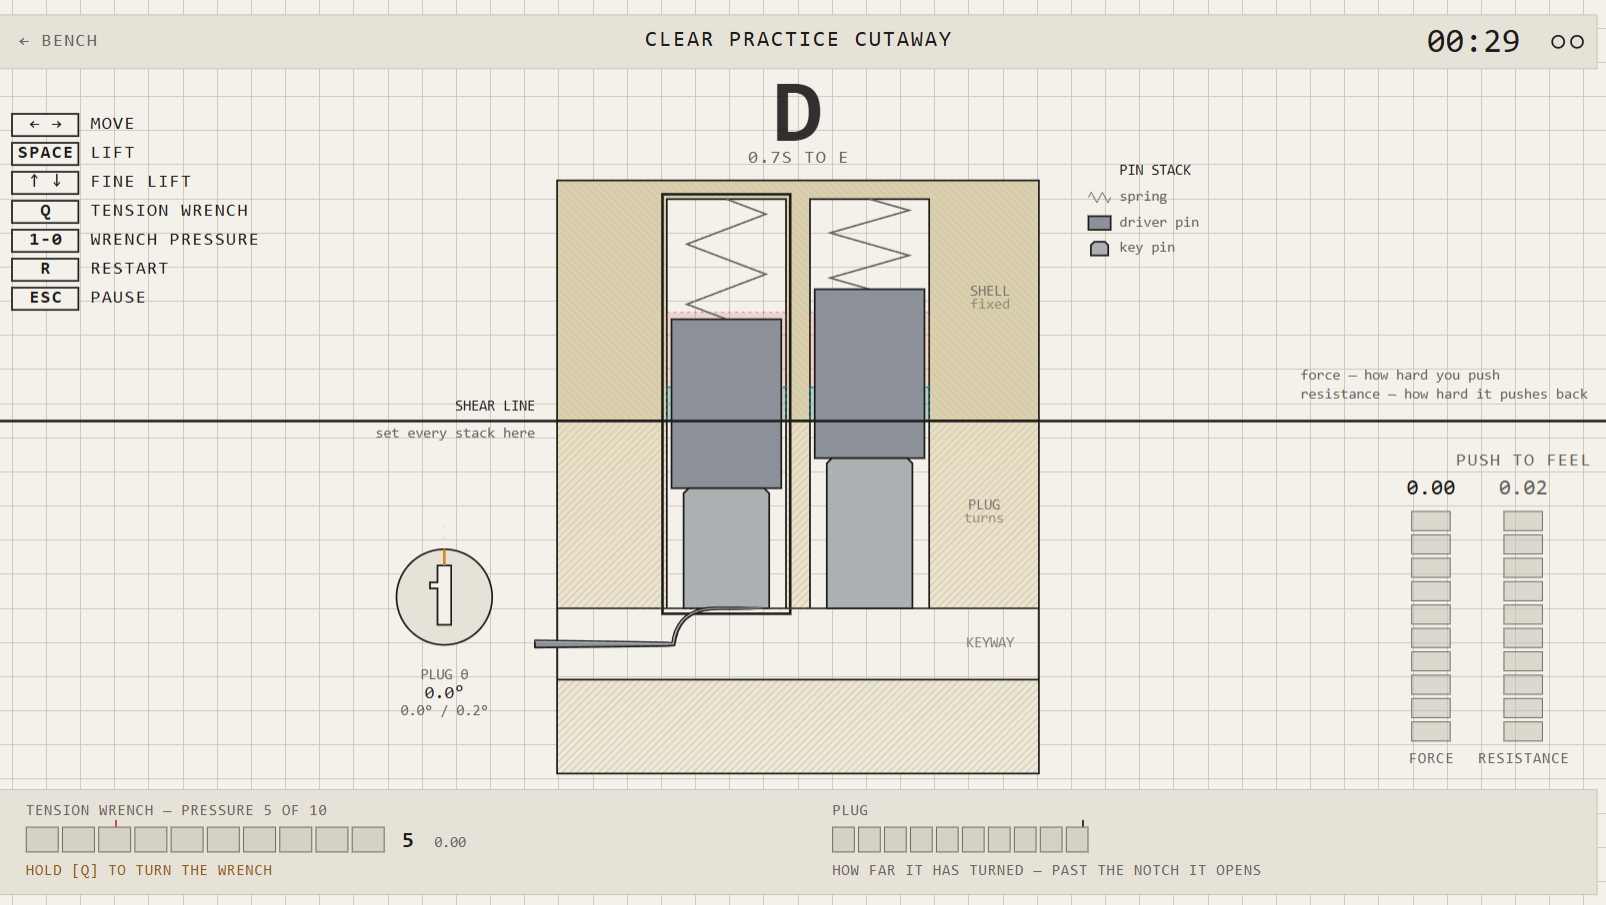
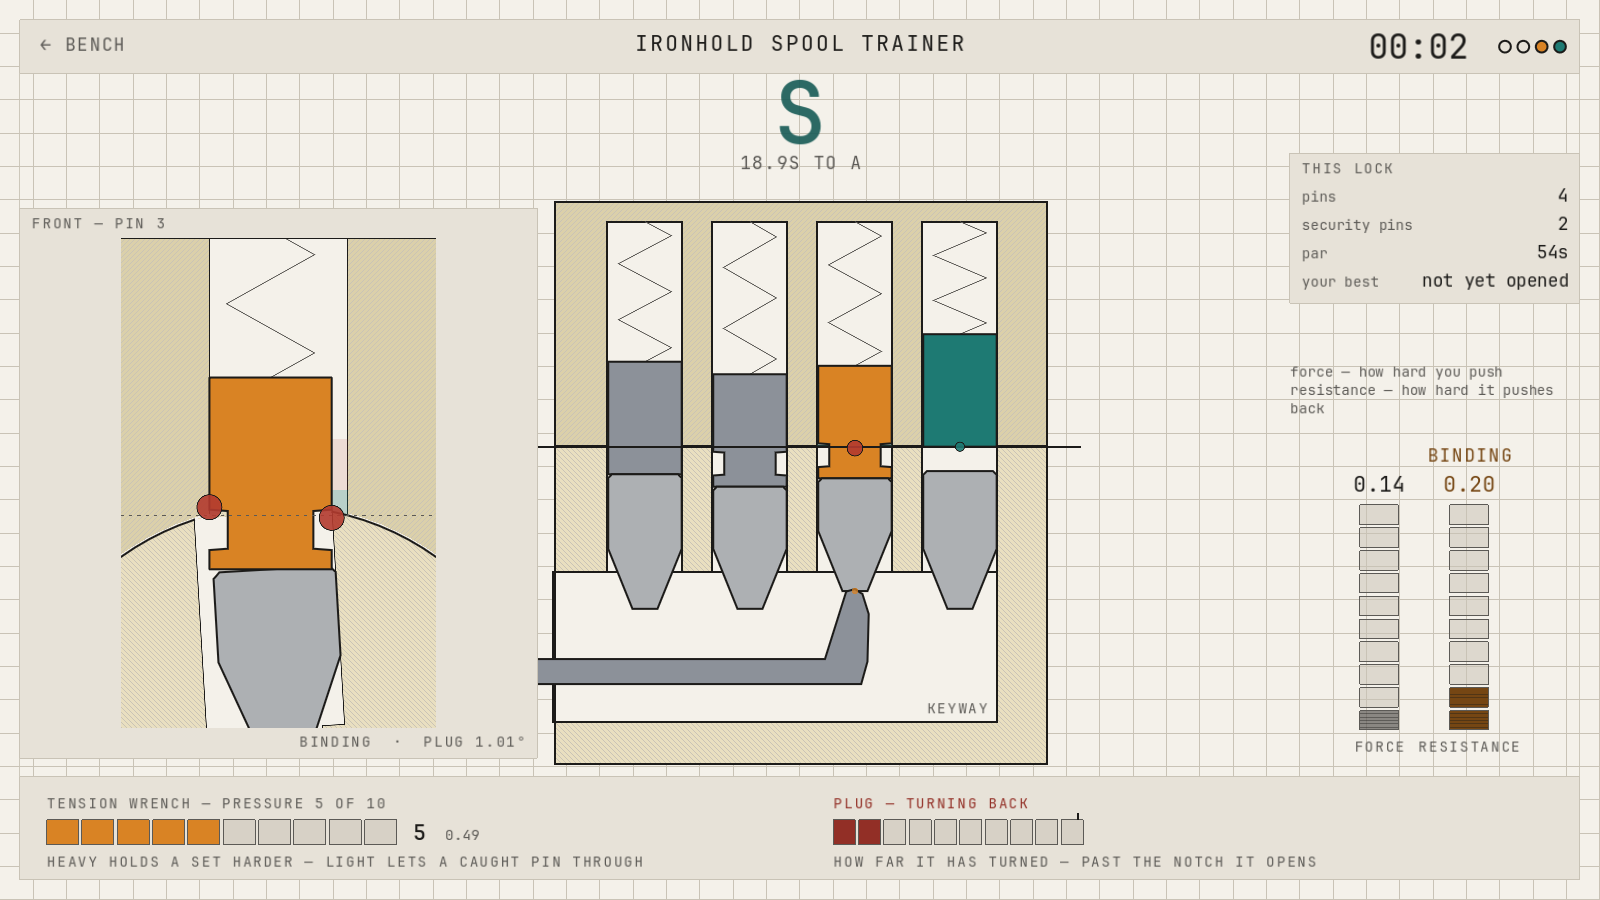
Update

diff --git a/old/README.md b/old/README.md
@@ -1,99 +1,63 @@
-# SHEAR LINE
+# SHEAR LINE, the first version
 
-**A lockpicking simulator that doesn't roll dice.**
+This is the original browser version of the game, written in TypeScript. It is not developed
+anymore. The current game is the Godot project in [`../src`](../src/README.md), and that is what
+[lockpick.fun](https://lockpick.fun) serves.
 
-> This is the original browser version of the game. It is no longer developed: the game is now
-> the Godot project in [`../src`](../src/README.md), and that is what
-> [lockpick.fun](https://lockpick.fun) serves. This version stays playable beside it.
+This version is still playable at **[lockpick.fun/classic](https://lockpick.fun/classic/)**.
 
-**Play it at [lockpick.fun/classic](https://lockpick.fun/classic/)**
+![Ironhold Spool Trainer in this version: two pins set, a spool binding](../.github/classic.png)
 
-![The Ironhold Spool Trainer, mid-false-set: two pins captured, a spool lying about the third, and the plug swung 18 degrees round to nothing.](../.github/screenshot.png)
-
-Most games turn lockpicking into a puzzle: connect the pipes, stop the bar in the green zone, or
-wiggle a stick until a hidden dice roll decides you deserve it.
-
-This one doesn't. Every lock here is a real mechanism, simulated. There's no secret success chance
-and no progress bar. A pin sets because you held the pick still inside a window a fraction of a
-millimetre wide, long enough for the plug's ledge to catch under the driver. When a spool shoves
-your pick back out, that's a wedge on a bevel — worked out, not faked.
-
-Twenty-two locks across four tiers, and a pick that bends when the lock pushes back.
-
----
+It has 24 locks in four tiers (pin tumblers and combination wheels), a snap gun, a lock editor and
+a dungeon of locked doors.
 
 ## Playing
 
-It runs in your browser. Nothing to install, no account, and no network traffic once the page has
+It runs in the browser. Nothing to install, no account, and no network requests after the page has
 loaded.
 
-Want it offline? Every build is attached to the [latest release](../../../releases/latest) as a zip.
-Unpack it, open `index.html`, and it runs straight off your disk — there's nothing in it to fetch.
+For an offline copy, every build is attached to the [latest release](../../../releases/latest) as
+a zip. Unpack it and open `index.html`.
 
 ### Controls
 
-You pick with the keyboard. The mouse is only for menus.
+Keyboard, mouse or controller. The pick screen shows the controls for whatever you are using.
 
-| key | what it does |
+| key | |
 |---|---|
-| **Q**, held | The tension wrench. **Nothing works without it.** |
-| **Left / Right** | Move the pick to the next chamber. |
-| **Space**, held | Push the pick up. Let go and the pin drops back down. |
-| **1 … 9, 0** | Wrench pressure, ten steps from light to heavy. |
-| **Up / Down** | Trim the lift a hair. Training level only. |
-| **R** | Restart the lock. |
-| **Esc** | Pause. |
+| Q (hold) | tension wrench |
+| Left / Right | move the pick |
+| Space (hold) | push the pick up; let go and the pin drops |
+| 1 to 0 | wrench pressure |
+| Up / Down | fine lift (Training only) |
+| R | restart |
+| Esc | pause |
 
-**Learn the wrench first.** With no tension, nothing binds and nothing can be captured — you can
-lift every pin in the lock and achieve absolutely nothing. The game tells you so, in amber, until
-you've used it once.
+Hold the wrench first. Without tension nothing binds and nothing sets.
 
-**On a phone:** turn it sideways. Tap a pin to select it, drag up to lift, and the slider down the
-left edge *is* your wrench — off at the bottom, ten pressure steps above.
+With the mouse: move it to move the pick, hold the left button for the wrench, and hold the right
+button as well to ease the plug back.
+
+On a phone, turn it sideways. Tap a pin to select it and drag up to lift. The slider on the left
+edge is the wrench.
 
 ### Where to start
 
-Three short lessons sit at the top of the bench. Together they take about five minutes, and they're
-the whole game in miniature:
+The Tutorial has eight short lessons: the turn, tension and lift, overset and reset, wrench
+pressure, the spool, the serrated pin, the wheel pack and the snap gun.
 
-1. Find the pin that's binding.
-2. Jam one on purpose, and learn what a reset costs.
-3. Meet a spool, and learn that a lock can lie to you.
+### Levels
 
-There's no wall of text to click past — one line at a time, and it changes when you do something.
+There are two, in Settings:
 
-### If it feels impossible
+- Training shows everything: pin types, the binding pin, the target window.
+- Normal shows the pins without state colours or hints.
 
-It might be the lock. It might also be the wrench.
+There is no currency. The score is your rank on the clock. Training is ranked against 0.6x of a
+lock's par time, Normal against the full par. Audio subtitles can be turned on in Settings.
 
-Four levels live in Settings and you can switch between them at any time. Each one takes away
-exactly one thing:
+## Bugs and questions
 
-| level | what you get |
-|---|---|
-| **Training** | Everything, and where you start. The binding pin is bracketed, the capture window is marked, the overset zone is shaded red before you reach it, and the arrow keys trim your lift for you. |
-| **Easy** | The readouts, plus a progress dot on each pin. |
-| **Medium** | No pin dots. The meters and the pick's flex. |
-| **Hard** | No cutaway at all. The lock's face, your hands, and what you can hear. |
-
-**The level buys time, not points.** There's no currency in this game. Your only score is the rank
-on the clock, and the level scales the time you're measured against — 0.6x on Training, up to 2.5x
-on Hard. The same run is a C on Easy and an S on Hard, so picking blind pays off rather than just
-earning respect. Nothing is locked behind difficulty.
-
-If you'd rather read the lock than listen to it, turn on audio subtitles in Settings.
-
----
-
-## Found a bug? Stuck on something?
-
-Both are worth telling me about.
-
-- **Bugs and ideas** — [open an issue](https://github.com/zzzteph/lockpick.fun/issues/new). There's
-  also a **report an issue** button inside the game, which fills in which screen and which lock you
-  were on, so all you have to write is what went wrong.
-- **Everything else** — [join the Discord](https://discord.gg/V9ce457mup). Questions, feedback,
-  showing off a lock you built, or working out why that middle spool won't budge.
-
-
-
+[Open an issue](https://github.com/zzzteph/lockpick.fun/issues/new), or ask on the
+[Discord](https://discord.gg/V9ce457mup). The game also has a "report an issue" button that fills
+in which screen and lock you were on.

diff --git a/README.md b/README.md
@@ -1,33 +1,67 @@
 # SHEAR LINE
 
-**A lockpicking simulator that doesn't roll dice.**
+A lockpicking simulator. Play it in the browser at **[lockpick.fun](https://lockpick.fun)**.
 
-**Play it now at [lockpick.fun](https://lockpick.fun)**
+![Ironhold Spool Trainer: one pin set, a spool caught at the shear line](.github/screenshot.png)
 
-Every lock here is a real mechanism, simulated. Picking has no hidden success chance and no progress
-bar: a pin sets because you lifted it to the shear line while the plug was pinching it, and a spool
-that drops the plug into a false set is a waist and a rim doing what they do.
+In most games lockpicking is a minigame with a dice roll behind it. Here the lock itself is
+simulated: pins, springs, a plug and a tension wrench. A pin sets when you lift it to the shear line
+while the plug is binding it. A spool gives you a false set. Push a pin too far and it oversets.
+There is no success chance anywhere.
 
-## What is in here
+## What's in it
 
-| | |
+- 27 locks: 21 pin tumblers (the harder ones have spools, serrated pins, mushrooms and T-pins),
+  3 combination locks and 3 disc detainers
+- a tutorial of 10 short lessons
+- Lock Blitz: 5 minutes, open as many locks as you can
+- a snap gun that works on 6 of the plain locks
+- a lock editor, with codes for sharing a lock you built
+- trophies, two themes, and a help section with pictures
+
+![Vantage Disc Detainer 6 with three of six gates found](.github/discs.png)
+
+There are two levels. Training colours the pins and shows which one is binding. Normal shows the
+same lock without the hints. Each lock gives you a rank for your time.
+
+## Controls
+
+On the keyboard:
+
+| key | |
 |---|---|
-| [`src/`](src/README.md) | **The game.** A Godot 4.7 project (GDScript, 2D): the pin lock is engine physics bodies, and binding, setting, false sets and oversets are what those bodies do. Exports for the browser, Windows and Linux. |
-| [`old/`](old/README.md) | The original browser version (TypeScript and a canvas), with its own contact solver, its tests and its tools. No longer developed; still playable at [lockpick.fun/classic](https://lockpick.fun/classic/). |
-| `.github/workflows/deploy.yml` | Tests both, exports the game for the web and publishes the site on every push to `main`. |
+| Q (hold) | tension wrench |
+| ← → | move the pick |
+| Space (hold) | lift the pin, or turn the disc |
+| 1 to 0 | wrench pressure |
+| C (hold) | ease the plug back |
+| R | restart |
+| Esc | pause |
 
-## Running the game
+Hold the wrench first. Without tension nothing binds and nothing sets.
 
-With Godot 4.7.2 (`G` is its executable):
+Mouse, controller and touch work too, see [src/README.md](src/README.md#controls).
+
+## Feedback
+
+There is a Feedback button in the game. You can also
+[open an issue](https://github.com/zzzteph/lockpick.fun/issues/new) or come to the
+[Discord](https://discord.gg/V9ce457mup).
+
+## The repository
+
+- `src/` is the game, a Godot 4.7 project. Details are in [src/README.md](src/README.md).
+- `old/` is the first version, written in TypeScript. It is not developed anymore but still runs
+  at [lockpick.fun/classic](https://lockpick.fun/classic/). See [old/README.md](old/README.md).
+- `.github/workflows/deploy.yml` runs the tests and publishes the site on every push to `main`.
+
+To run from source you need Godot 4.7.2:
 
 ```
-G --headless --path src --import    # once after a checkout
-G --path src                        # play
-G --path src --editor               # open in the editor
+godot --headless --path src --import    # once, after cloning
+godot --path src
 ```
-
-Controls, how the lock works, the builds and the tests are in [`src/README.md`](src/README.md).
 
 ## Licence
 
-MIT — see [`LICENSE`](LICENSE).
+MIT, see [LICENSE](LICENSE).
